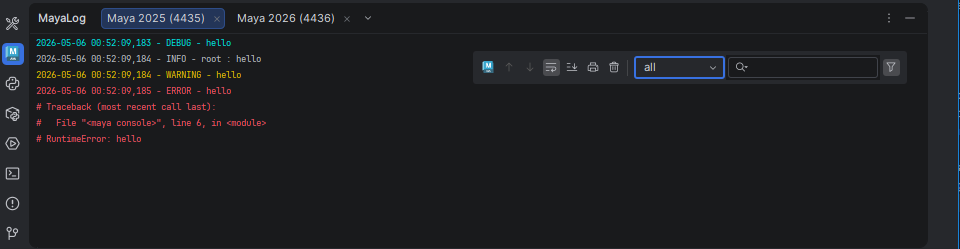
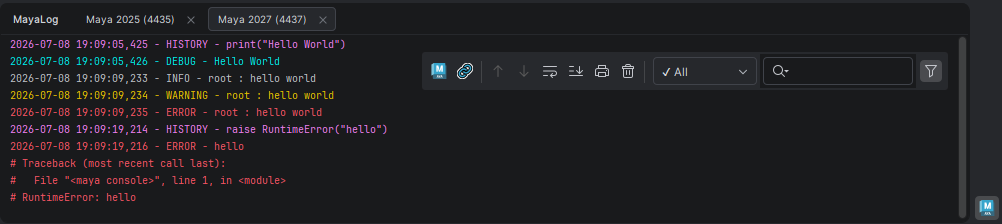
📝 README.md: enhance documentation with GitHub callouts. Update instructions for Run configs and new logAction

diff --git a/README.md b/README.md
@@ -5,9 +5,11 @@ Maya integration for PyCharm. MayaReCharm lets you execute the current document 
 allows attaching the PyDev debugger to a running Maya instance.
 <!-- Plugin description end -->
 
-For those looking for the compiled version, you can find it in the **[JetBrains Marketplace](https://plugins.jetbrains.com/plugin/31239-mayarecharm/)** or install it directly from your IDE's plugin manager.
+> [!NOTE]
+> For those looking for the compiled version, you can find it in the **[JetBrains Marketplace](https://plugins.jetbrains.com/plugin/31239-mayarecharm/)** or install it directly from your IDE's plugin manager.
 
-If you need older versions, you can find them in the original [MayaCharm repository](https://github.com/cmcpasserby/MayaCharm) by Chris Cunningham.
+> [!TIP]
+> If you need older versions, you can find them in the original [MayaCharm repository](https://github.com/cmcpasserby/MayaCharm) by Chris Cunningham.
 
 ## 🥰 Support My Work
 
@@ -23,10 +25,12 @@ future updates and maintenance.
 MayaReCharm requires some minimal setup. The settings panel is located at `Settings | Other Settings | MayaReCharm`.
 
 - **Port Numbers:** Define the port numbers MayaReCharm will use to communicate with your Maya installations.
-- **Maya Interpreters:** Add `mayapy` interpreters to make them available for code execution. Note that adding `mayapy`
-  via the standard `Settings | Python Interpreter` is not supported.
+- **Maya Interpreters:** Add `mayapy` interpreters to make them available for code execution. 
 
 ![MayaReCharm Settings Panel](docs/MayaReCharm3_Settings.png)
+
+> [!WARNING]
+> Adding `mayapy` via the standard `Settings | Python Interpreter` is not supported.
 
 When editing a port number, MayaReCharm displays the code required to open Maya for connections. You can execute this
 code in Maya or add it to your `userSetup.py` file.
@@ -35,16 +39,18 @@ code in Maya or add it to your `userSetup.py` file.
 
 ## Usage
 
-Once configured, mayapy interpreters are available as Python Interpreter. Select one of them through the bottom-right
+Once configured, `mayapy` interpreters are available as Python Interpreter. Select one of them through the bottom-right
 interpreter selector in the IDE so you can enjoy proper syntax highlighting and code completion for Maya's Python API,
 this will also determine to which Maya `Execute Actions` will send the code.
 
 ![MayaReCharm_select_interpreter.jpg](docs/MayaReCharm_select_interpreter.png)
 
-MayaReCharm also adds a new type of Run Configuration. Select the Maya instance to connect to and provide a Python file
-or specific code to execute.
+Maya interpreters can also be used in `Run Configurations`. The script will be executed by a new standalone `mayapy`
+process.
+In this specific case, `maya.cmds` will require an initialization as
+explained [here](https://help.autodesk.com/view/MAYAUL/2027/ENU/?guid=GUID-D457D6A0-1E7F-4ED2-B0B4-8B57153B563B)
 
-![MayaReCharm Run Config](docs/MayaReCharm3_RunConfig.jpg)
+![MayaReCharm Run Config](docs/MayaReCharm3_RunConfig.png)
 
 ### Actions
 
@@ -71,8 +77,13 @@ MayaReCharm provides a logging console that captures output from Maya. You can a
 The console supports one tab for each configured Maya interpreter, allowing you to view logs from multiple versions of
 Maya simultaneously. It also supports search and log level filtering.
 
-The ![MayaReCharm_Action.png](src/main/resources/icons/MayaReCharm_Action.png)  button in the console toolbar is the new
-location of the `Connect to Maya's log` action. It will try to connect to your Maya instance that matches the current tab.
+The ![MayaReCharm_Action.png](src/main/resources/icons/MayaReCharm_Action.png) button in the console toolbar is a
+shortcut for the `Execute Document` action with a small twist. It will send the current file to the Maya
+instance associated with the focused tab, even if the current project interpreter does not match.
+
+The ![MayaReCharm_link16.png](src/main/resources/icons/MayaReCharm_link16.png)  button in the console toolbar is the new
+location of the `Connect to Maya's log` action. It will try to connect to your Maya instance that matches the current
+tab.
 If the connection is successful, you'll see the message `PyCharm logger initialized and callback registered.` both in
 the console (`INFO` level) and in the Maya script editor.
 If nothing happens, try closing the tab and reopening it, or check the log level filter to ensure `INFO` level messages